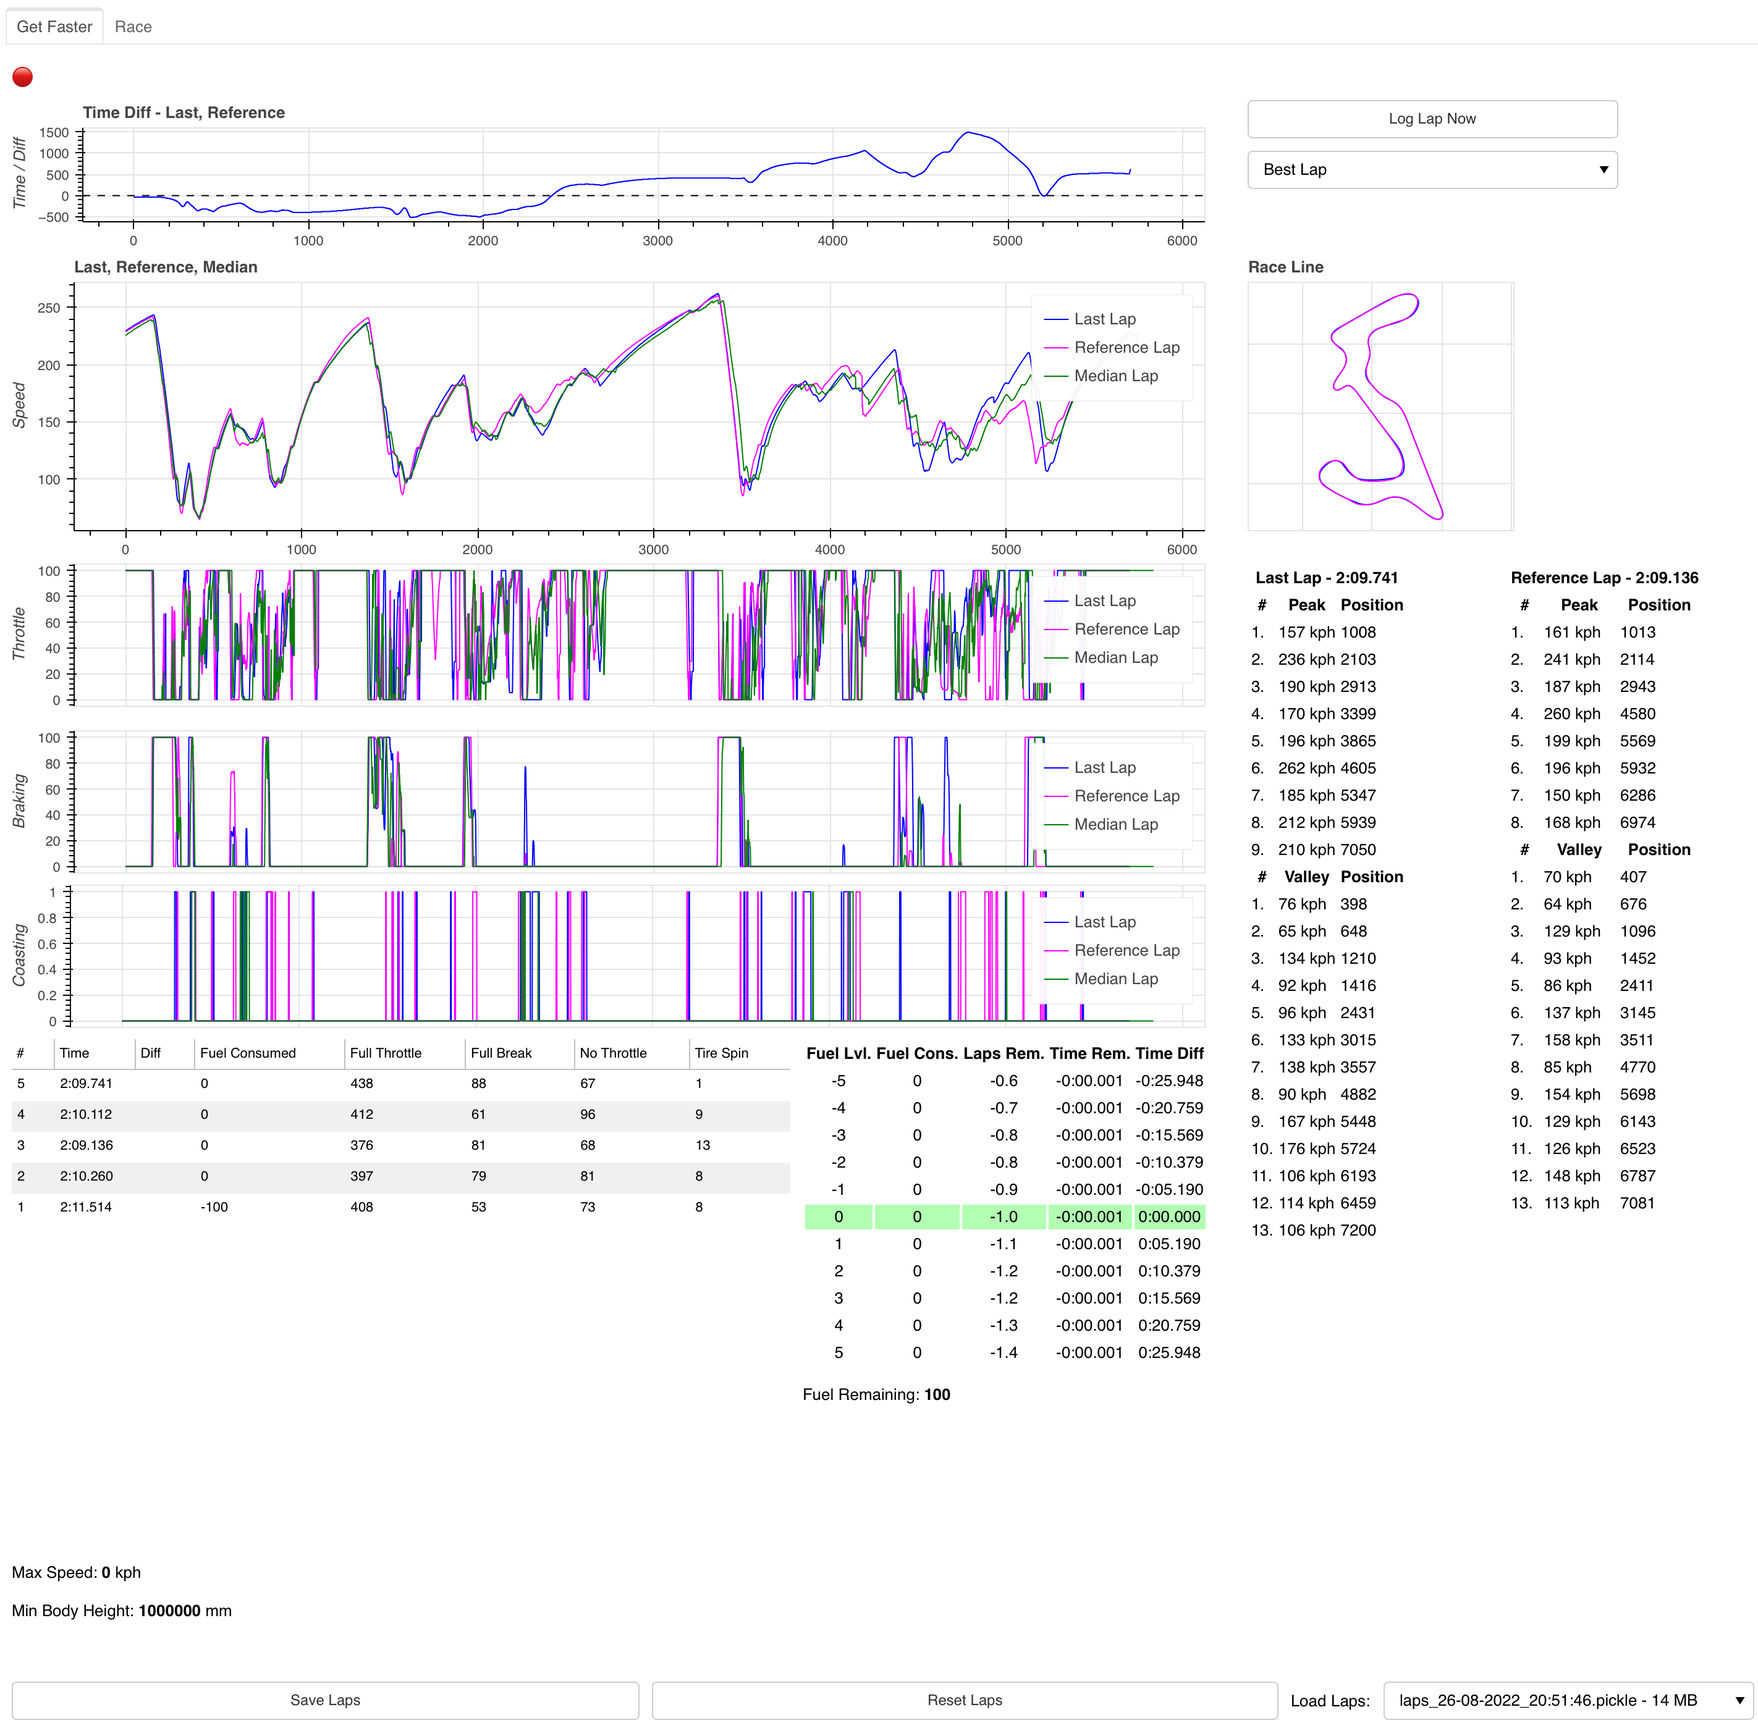
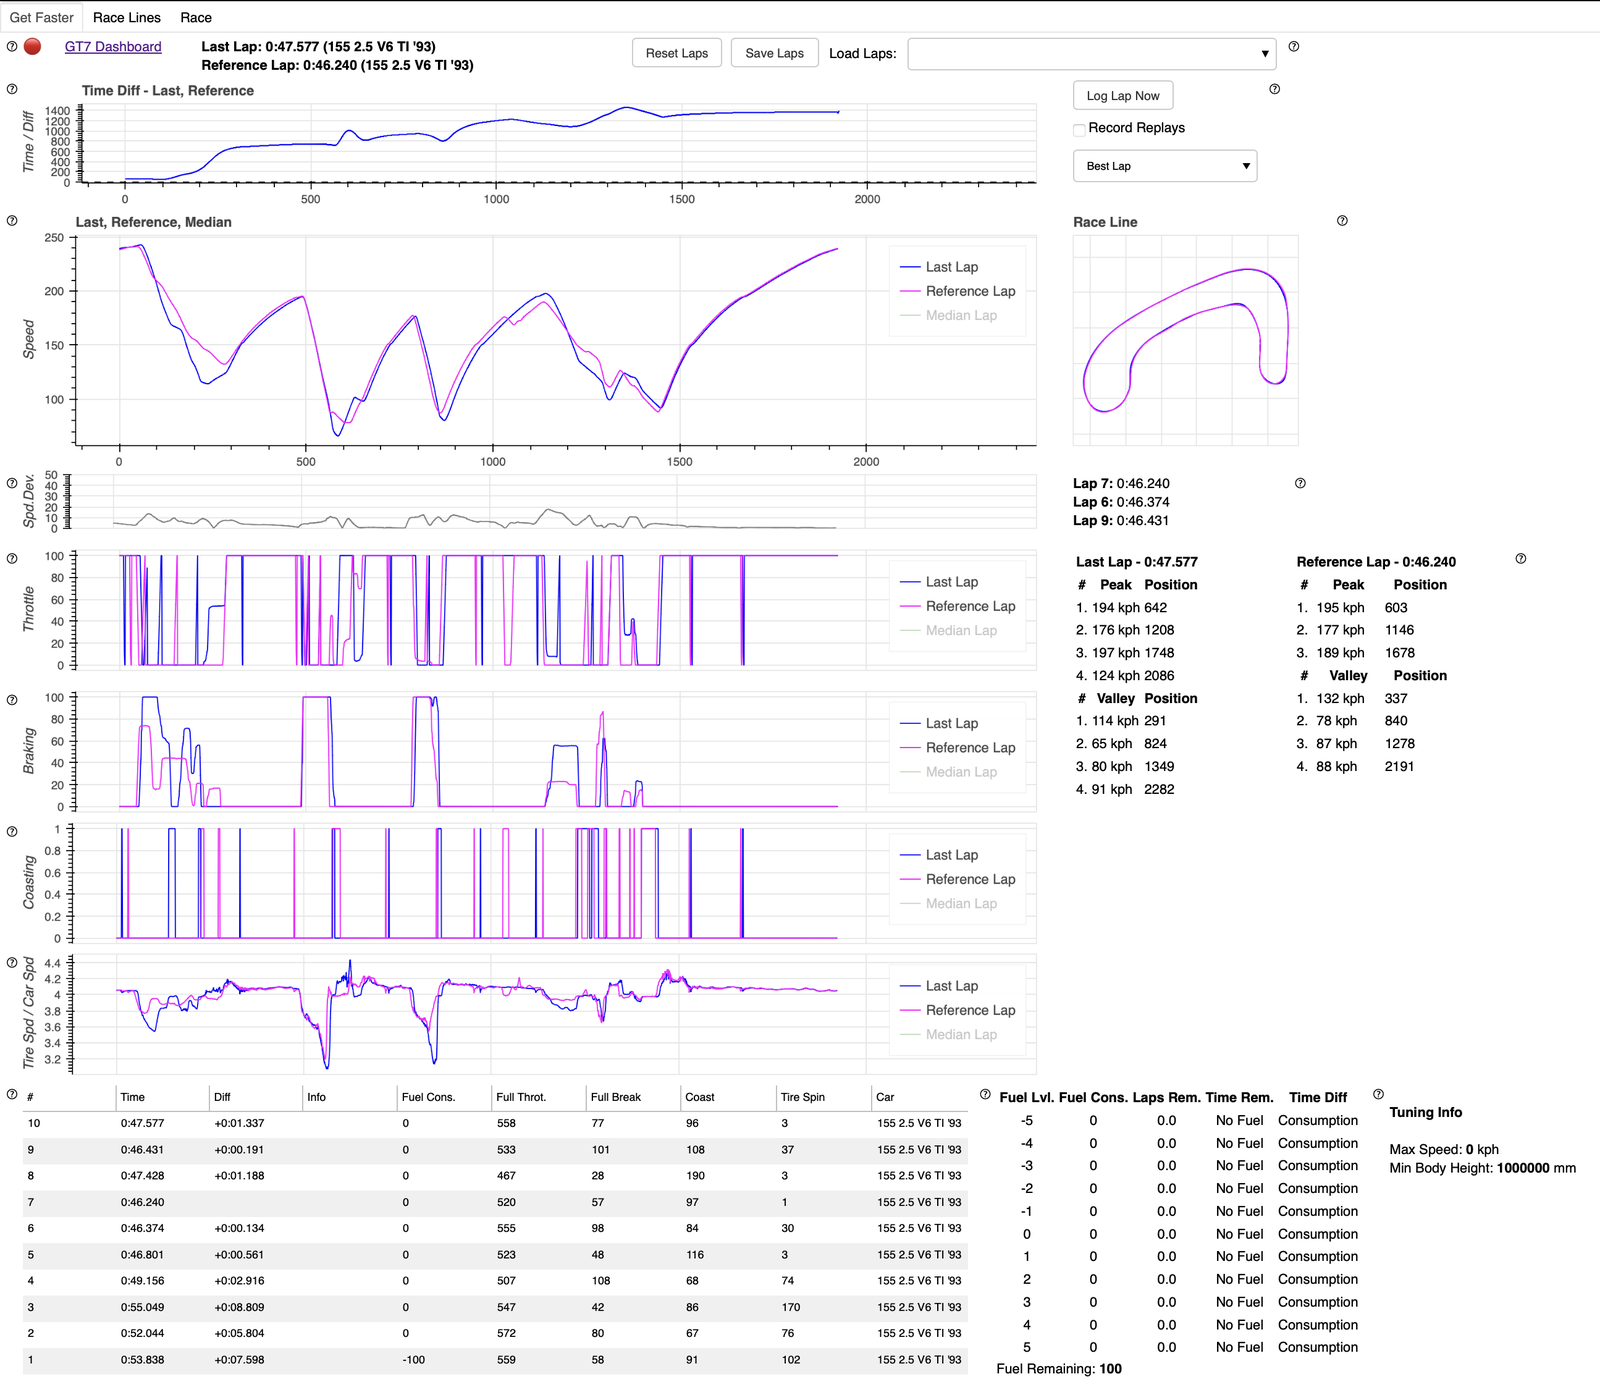
Update README, Manual and screenshots

diff --git a/gt7dashboard/gt7help.py b/gt7dashboard/gt7help.py
@@ -2,19 +2,68 @@ from bokeh.models import Div
 
 from gt7dashboard import gt7helper
 
-SPEED_VARIANCE_HELP = f"""Displays the speed deviation of the fastest laps within a {gt7helper.DEFAULT_FASTEST_LAPS_PERCENT_THRESHOLD * 100}% time difference threshold of the fastest lap.
+SPEED_VARIANCE = f"""Displays the speed deviation of the fastest laps within a {gt7helper.DEFAULT_FASTEST_LAPS_PERCENT_THRESHOLD * 100}% time difference threshold of the fastest lap.
 Replay laps are ignored. The speed deviation is calculated as the standard deviation between these fastest laps.
 
 With a perfect driver in an ideal world, this line would be flat. In a real world situation, you will get an almost flat line, 
 with bumps at the corners and long straights. This is where even your best laps deviate.
 
-You may get some insights for improvement on your consistency if you look at the points of the track where this line is bumpy."""
+You may get some insights for improvement on your consistency if you look at the points of the track where this line is bumpy.
 
-SPEED_PEAKS_AND_VALLEYS_HELP = ""
+The list on the right hand side shows your best laps that are token into consideration for the speed variance.
+"""
 
+HEADER = """The red or green button reflects the current connection status to Gran Turismo 7. i.e. if there was a packet received successfully in the last second, the button will turn green.
+
+Next is a brief description of the last and reference lap. The reference lap can be selected on the right side."""
+RACE_LINE_MINI = """This is a race line map with the last lap (blue) and the reference lap (magenta). Zoom in for more details.
+
+This map is helpful if you are using the index number of a graph to quickly determine where in the lap a measurement was taken.
+
+See the tab 'Race Line' for a more detailed race line."""
+MANUAL_CONTROLS = """'Log Lap Now' will log a lap now even you have not crossed the finished line. This is helpful for missions or license tests where the end of a test is not necessarily identical with the finish line.
+
+The checkbox 'Record Replays' will allow you to record replays. Be careful since also background action before and after a time trial is counted as a replay. This is when a car drives on the track in the background of the menu.
+
+In the 'Best Lap' dropdown list you can select the reference lap. Usually this will point to the best lap of the session.
+"""
+
+TIME_DIFF = """ This is a graph for showing the relative time difference between the last lap and the reference lap.
+Everything under the solid bar at 0 is slower than the reference lap. Everything above is slower than the reference lap.
+
+If you see a bump in this graph to the top or the bottom this means that you were slower or faster at this point respectively.
+"""
+LAP_CONTROLS = """You can reset all laps with the 'Reset Laps' button. This is helpful if you are switching tracks or cars in a session. Otherwise the different tracks will mix in the dashboard.
+'Save Laps' will save your recorded laps to a file. You can load the laps afterwards with the dropdown list to the right."""
+SPEED_DIAGRAM = """The total speed of the laps selected. This value is in km/h. or mph. depending on your in-game setting"""
+THROTTLE_DIAGRAM = """This is the amount of throttle pressure from 0% to 100% of the laps selected."""
+BRAKING_DIAGRAM = """This is the amount of braking pressure from 0% to 100% of the laps selected."""
+COASTING_DIAGRAM = """This is the amount of coasting from 0% to 100% of the laps selected. Coasting is when neither throttle or brake are engaged."""
+TIRE_DIAGRAM = """This is the relation between the speed of the tires and the speed of the car. If your tires are faster than your car, your tires might be spinning. If they are slower, your tires might be blocking. Use this judge your car control."""
+
+SPEED_PEAKS_AND_VALLEYS = """A list of speed peaks and valleys for the selected laps. Use this to compare the difference in speed between the last lap and the reference lap on given positions of the race track. Peaks will be straights, will valleys will be corners."""
+TIME_TABLE = """A table with logged information of the session. # is the number of the lap as reported by the game. There might be multiple laps of the same number if you restarted a session. Time and Diff are self-explaining. Info will hold addiotnal meta data, for example if this lap was a replay.
+Fuel Consumed is the amount of fuel consumed in the lap.
+
+What follows know are simple metrics for the characteristics of the lap. This is counted as ticks, which means instances when the game reported a state. For example Full Throttle = 500 means that you were on full throttle during 500 instances when the game sent its telemetry.
+The same goes for Full Break, Coast and Tire Spin. Use this to easily compare your laps.
+
+You can click on one of these laps to add them to the diagrams above.
+
+Car will hold the car name. You will have to have the `db/cars.csv` file downloaded for this to work.
+"""
+FUEL_MAP = """This fuel map will help to determine the fuel setting of your car. The game does not report the current fuel setting, so this map is relative.
+The current fuel setting will always be at 0. If you want to change the fuel to a leaner setting count downwards with the amount of steps left. For example: If you are at fuel setting 2 in the game and want to go to the games fuel setting 5, have a look at Fuel Lvl. 3 in this map.
+It will give you a raw assumption of the laps and time remaining and the assumed time difference in lap time for the new setting."""
+TUNING_INFO = """Here is some useful information you may use for tuning. Such as Max Speed and minimal body height in relation to the track. The later seems to be helpful when determining the possible body height."""
+
+RACE_LINE_BIG = """This is a race line map with the last lap (blue) and the reference lap (magenta). This diagram does also feature spead peaks (▴) and valleys (▾) as well as throttle, brake and coasting zones.
+
+The thinner line of the two is your last lap. The reference line is the thicker translucent line. If you want to make out differences in the race line have a look at the middle of the reference lap line and your line. You may zoom in to spot the differences and read the values on peaks and valleys.
+"""
 
 def get_help_div(help_text_resource):
-    return Div(text=get_help_text_resource(help_text_resource), width=5, height=5)
+    return Div(text=get_help_text_resource(help_text_resource), width=7, height=5)
 
 
 def get_help_text_resource(help_text_resource):

diff --git a/main.py b/main.py
@@ -504,7 +504,7 @@ div_fuel_map = Div(width=200, height=125, css_classes=["fuel_map"])
 
 div_gt7_dashboard.text = f"<a href='https://github.com/snipem/gt7dashboard' target='_blank'>GT7 Dashboard</a>"
 
-LABELS = ["Always Record"]
+LABELS = ["Record Replays"]
 
 checkbox_group = CheckboxGroup(labels=LABELS, active=[1])
 checkbox_group.on_change("active", always_record_checkbox_handler)
@@ -513,15 +513,15 @@ race_time_table.t_lap_times.width=900
 
 l1 = layout(
     children=[
-        [div_connection_info, div_gt7_dashboard, div_header_line, reset_button, save_button, select_title, select],
-        [race_diagram.f_time_diff, layout(children=[manual_log_button, checkbox_group, reference_lap_select])],
-        [race_diagram.f_speed, s_race_line],
-        [race_diagram.f_speed_variance, div_deviance_laps_on_display, get_help_div(gt7help.SPEED_VARIANCE_HELP)],
-        [race_diagram.f_throttle, [[div_last_lap, div_reference_lap]], get_help_div(gt7help.SPEED_PEAKS_AND_VALLEYS_HELP)],
-        [race_diagram.f_braking],
-        [race_diagram.f_coasting],
-        [race_diagram.f_tires],
-        [race_time_table.t_lap_times, div_fuel_map, div_tuning_info],
+        [get_help_div(gt7help.HEADER), div_connection_info, div_gt7_dashboard, div_header_line, reset_button, save_button, select_title, select, get_help_div(gt7help.LAP_CONTROLS)],
+        [get_help_div(gt7help.TIME_DIFF), race_diagram.f_time_diff, layout(children=[manual_log_button, checkbox_group, reference_lap_select]), get_help_div(gt7help.MANUAL_CONTROLS)],
+        [get_help_div(gt7help.SPEED_DIAGRAM), race_diagram.f_speed, s_race_line, get_help_div(gt7help.RACE_LINE_MINI)],
+        [get_help_div(gt7help.SPEED_VARIANCE), race_diagram.f_speed_variance, div_deviance_laps_on_display, get_help_div(gt7help.SPEED_VARIANCE)],
+        [get_help_div(gt7help.THROTTLE_DIAGRAM), race_diagram.f_throttle, [[div_last_lap, div_reference_lap]], get_help_div(gt7help.SPEED_PEAKS_AND_VALLEYS)],
+        [get_help_div(gt7help.BRAKING_DIAGRAM), race_diagram.f_braking],
+        [get_help_div(gt7help.COASTING_DIAGRAM), race_diagram.f_coasting],
+        [get_help_div(gt7help.TIRE_DIAGRAM), race_diagram.f_tires],
+        [get_help_div(gt7help.TIME_TABLE), race_time_table.t_lap_times, get_help_div(gt7help.FUEL_MAP), div_fuel_map, get_help_div(gt7help.TUNING_INFO), div_tuning_info],
     ]
 )
 

diff --git a/generate_doc.py b/generate_doc.py
@@ -6,8 +6,51 @@ if __name__ == '__main__':
 
     out_markdown += "### Tab 'Get Faster'\n\n"
 
+    out_markdown += "#### Header\n\n"
+    out_markdown += gt7help.HEADER + "\n\n"
+
+    out_markdown += "#### Lap Controls\n\n"
+    out_markdown += gt7help.LAP_CONTROLS + "\n\n"
+
+    out_markdown += "#### Time / Diff\n\n"
+    out_markdown += gt7help.TIME_DIFF + "\n\n"
+
+    out_markdown += "#### Lap Controls\n\n"
+    out_markdown += gt7help.LAP_CONTROLS + "\n\n"
+
+    out_markdown += "#### Speed \n\n"
+    out_markdown += gt7help.SPEED_DIAGRAM + "\n\n"
+
+    out_markdown += "#### Race Line\n\n"
+    out_markdown += gt7help.RACE_LINE_MINI + "\n\n"
+
     out_markdown += "#### Speed Deviation (Spd. Dev.)\n\n"
-    out_markdown += gt7help.SPEED_VARIANCE_HELP
+    out_markdown += gt7help.SPEED_VARIANCE + "\n\n"
+
+    out_markdown += "#### Throttle\n\n"
+    out_markdown += gt7help.THROTTLE_DIAGRAM + "\n\n"
+
+    out_markdown += "#### Braking\n\n"
+    out_markdown += gt7help.BRAKING_DIAGRAM + "\n\n"
+
+    out_markdown += "#### Coasting\n\n"
+    out_markdown += gt7help.COASTING_DIAGRAM + "\n\n"
+
+    out_markdown += "#### Tire Speed / Car Speed\n\n"
+    out_markdown += gt7help.TIRE_DIAGRAM + "\n\n"
+
+    out_markdown += "#### Time Table\n\n"
+    out_markdown += gt7help.TIME_TABLE + "\n\n"
+
+    out_markdown += "#### Fuel Map\n\n"
+    out_markdown += gt7help.FUEL_MAP + "\n\n"
+
+    out_markdown += "#### Tuning Info\n\n"
+    out_markdown += gt7help.TUNING_INFO + "\n\n"
+
+    out_markdown += "### Tab 'Race Line'\n\n"
+
+    out_markdown += gt7help.RACE_LINE_BIG + "\n\n"
 
     print(out_markdown)
 

diff --git a/gt7dashboard/gt7diagrams.py b/gt7dashboard/gt7diagrams.py
@@ -141,8 +141,7 @@ class RaceTimeTable(object):
         )
         # This will lead to not being rendered
         # self.t_lap_times.autosize_mode = "fit_columns"
-        # self.t_lap_times.min_height = 20
-        # self.t_lap_times.min_width = 950
+        # Maybe this is related: https://github.com/bokeh/bokeh/issues/10512 ?
 
 
     def show_laps(self, laps: List[Lap]):

diff --git a/README.md b/README.md
@@ -2,15 +2,19 @@
 
 gt7dashboard is a live dashboard for Gran Turismo 7. Based on the recent discovery of the telemetry interface of GT7 described [here first](https://www.gtplanet.net/forum/threads/gt7-is-compatible-with-motion-rig.410728 ). This began as a fork of Bornhalls [gt7telemetry](https://github.com/Bornhall/gt7telemetry).
 
+See the [manual](#manual) for detailed instructions.
+
 ## Features
 
-![image-20220816134448786](README.assets/screenshot.png)
+![](README.assets/screenshot.png)
+![](README.assets/screenshot_race_line.png)
 
 * Time Diff Graph between Last Lap and Reference Lap
   * *Under dashed line* is better and *over dashed line* is worse than Reference Lap
   
 * Speed/Distance Graph for Last Lap, Reference Lap and Median Lap.
   * Median Lap is calculated by the median of all recent laps
+* Speed Variance Graph
 * Picker for Reference Lap
   * Default is Best Lap
 
@@ -24,7 +28,8 @@ gt7dashboard is a live dashboard for Gran Turismo 7. Based on the recent discove
 * Additional data for tuning such as Max Speed and Min Body Height
 * Ability to Save current laps and reset all laps
 * Race Lines for the most recent laps depicting throttling (green), braking (red) and coasting (blue)
-* Additional "Race view" with only lap view and fuel map in a bigger font size
+* Bigger Race Line view
+* Additional "Race view" with only fuel map
 * Optional Brake Points (slow) when setting `GT7_ADD_BRAKEPOINTS=true`
 
 ### Get Telemetry of a Demonstration lap or Replay
@@ -32,8 +37,8 @@ gt7dashboard is a live dashboard for Gran Turismo 7. Based on the recent discove
 Enable the "Always Record" checkbox to always record replays. Otherwise will only the laps you are actually driving are recorded.
 
 ## How to run
-
 1. `pip3 install -r requirements.txt` to install Python dependencies (once)
+2. (Optional) Download the list of car names with `python3 helper/download_cars_csv`
 2. `GT7_PLAYSTATION_IP=<CONSOLE IP ADDRESS> bokeh serve .` (when inside the folder)
 
 ## Troubleshooting
@@ -61,10 +66,51 @@ There is a `Dockerfile` available. This is a sample `docker-compose` configurati
             - GT7_PLAYSTATION_IP=<playstation ip>
             - TZ=Europe/Berlin
 ```
+## Contributing
+
+Please add unit tests for all new features, calculations etc.
+
+If you want to add something to the manual, please edit `gt7dashboard/gt7help.py` and use `make doc` to generate the `README.md`.
 
 ## Manual
 
 ### Tab 'Get Faster'
+
+#### Header
+
+The red or green button reflects the current connection status to Gran Turismo 7. i.e. if there was a packet received successfully in the last second, the button will turn green.
+
+Next is a brief description of the last and reference lap. The reference lap can be selected on the right side.
+
+#### Lap Controls
+
+You can reset all laps with the 'Reset Laps' button. This is helpful if you are switching tracks or cars in a session. Otherwise the different tracks will mix in the dashboard.
+'Save Laps' will save your recorded laps to a file. You can load the laps afterwards with the dropdown list to the right.
+
+#### Time / Diff
+
+ This is a graph for showing the relative time difference between the last lap and the reference lap.
+Everything under the solid bar at 0 is slower than the reference lap. Everything above is slower than the reference lap.
+
+If you see a bump in this graph to the top or the bottom this means that you were slower or faster at this point respectively.
+
+
+#### Lap Controls
+
+You can reset all laps with the 'Reset Laps' button. This is helpful if you are switching tracks or cars in a session. Otherwise the different tracks will mix in the dashboard.
+'Save Laps' will save your recorded laps to a file. You can load the laps afterwards with the dropdown list to the right.
+
+#### Speed 
+
+The total speed of the laps selected. This value is in km/h. or mph. depending on your in-game setting
+
+#### Race Line
+
+This is a race line map with the last lap (blue) and the reference lap (magenta). Zoom in for more details.
+
+This map is helpful if you are using the index number of a graph to quickly determine where in the lap a measurement was taken.
+
+See the tab 'Race Line' for a more detailed race line.
 
 #### Speed Deviation (Spd. Dev.)
 
@@ -75,3 +121,51 @@ With a perfect driver in an ideal world, this line would be flat. In a real worl
 with bumps at the corners and long straights. This is where even your best laps deviate.
 
 You may get some insights for improvement on your consistency if you look at the points of the track where this line is bumpy.
+
+The list on the right hand side shows your best laps that are token into consideration for the speed variance.
+
+
+#### Throttle
+
+This is the amount of throttle pressure from 0% to 100% of the laps selected.
+
+#### Braking
+
+This is the amount of braking pressure from 0% to 100% of the laps selected.
+
+#### Coasting
+
+This is the amount of coasting from 0% to 100% of the laps selected. Coasting is when neither throttle or brake are engaged.
+
+#### Tire Speed / Car Speed
+
+This is the relation between the speed of the tires and the speed of the car. If your tires are faster than your car, your tires might be spinning. If they are slower, your tires might be blocking. Use this judge your car control.
+
+#### Time Table
+
+A table with logged information of the session. # is the number of the lap as reported by the game. There might be multiple laps of the same number if you restarted a session. Time and Diff are self-explaining. Info will hold addiotnal meta data, for example if this lap was a replay.
+Fuel Consumed is the amount of fuel consumed in the lap.
+
+What follows know are simple metrics for the characteristics of the lap. This is counted as ticks, which means instances when the game reported a state. For example Full Throttle = 500 means that you were on full throttle during 500 instances when the game sent its telemetry.
+The same goes for Full Break, Coast and Tire Spin. Use this to easily compare your laps.
+
+You can click on one of these laps to add them to the diagrams above.
+
+Car will hold the car name. You will have to have the `db/cars.csv` file downloaded for this to work.
+
+
+#### Fuel Map
+
+This fuel map will help to determine the fuel setting of your car. The game does not report the current fuel setting, so this map is relative.
+The current fuel setting will always be at 0. If you want to change the fuel to a leaner setting count downwards with the amount of steps left. For example: If you are at fuel setting 2 in the game and want to go to the games fuel setting 5, have a look at Fuel Lvl. 3 in this map.
+It will give you a raw assumption of the laps and time remaining and the assumed time difference in lap time for the new setting.
+
+#### Tuning Info
+
+Here is some useful information you may use for tuning. Such as Max Speed and minimal body height in relation to the track. The later seems to be helpful when determining the possible body height.
+
+### Tab 'Race Line'
+
+This is a race line map with the last lap (blue) and the reference lap (magenta). This diagram does also feature spead peaks (▴) and valleys (▾) as well as throttle, brake and coasting zones.
+
+The thinner line of the two is your last lap. The reference line is the thicker translucent line. If you want to make out differences in the race line have a look at the middle of the reference lap line and your line. You may zoom in to spot the differences and read the values on peaks and valleys.
